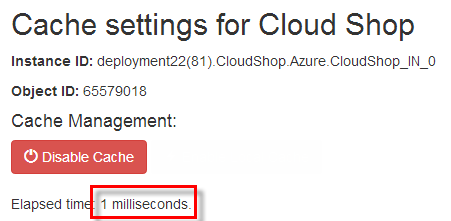
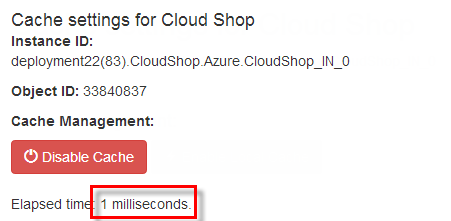
HOL-BuildingAppsWithCaching
Updated HOL document Ex2 and related screenshots.
	Updated Setup section, which pointed to another TK, and now to a WA documentation page for setting up a database.

diff --git a/HOLs/HOL-BuildingAppsWithCaching/HOL.md b/HOLs/HOL-BuildingAppsWithCaching/HOL.md
@@ -41,11 +41,11 @@ In order to run the exercises in this hands-on lab you need to set up your envir
 1. Right-click on **Setup.cmd** and select Run as Administrator to launch the setup process that will configure your environment and install the Visual Studio code snippets for this lab.
 1. If the User Account Control dialog is shown, confirm the action to proceed.
 
->**Note:** Make sure you have checked all the dependencies for this lab before running the setup.
+> **Note:** Make sure you have checked all the dependencies for this lab before running the setup.
 
->This lab requires a Windows Azure SQL Database to start. To build the Northwind2 database automatically, the **Setup.cmd** file will prompt to you with your Windows Azure SQL Database account information. Remember to update the NorthwindEntities connection string in the application's configuration file to point to your database for each solution.
+> This lab requires a Windows Azure SQL Database to start. To build the Northwind2 database automatically, the **Setup.cmd** file will prompt you with your Windows Azure SQL Database account information. Remember to update the NorthwindEntities connection string in the application's configuration file to point to your database for each solution.
 
->Remember to configure the firewall setting your Windows Azure SQL Database account to allow you to specify a list of IP addresses that can access your Windows Azure SQL Database Server. The firewall will deny all connections by default, so **be sure to configure your allow list** so you can connect to the database. Changes to your firewall settings can take a few moments to become effective. For additional information on how to prepare your Windows Azure SQL Database account, refer to the exercise 1 of the Introduction to Windows Azure SQL Database lab in the training kit.
+> Remember to configure the firewall setting your Windows Azure SQL Database account to allow you to specify a list of IP addresses that can access your Windows Azure SQL Database Server. The firewall will deny all connections by default, so **be sure to configure your allow list** so you can connect to the database. Changes to your firewall settings can take a few moments to become effective. For additional information on how to prepare your Windows Azure SQL Database account, refer to the Windows Azure documentation on [How to Create and Configure SQL Database](http://www.windowsazure.com/en-us/documentation/articles/sql-database-create-configure).
 
 >![SQL database setup](Images/sql-database-setup.png?raw=true "Windows Azure SQL Database setup")
 
@@ -216,14 +216,15 @@ In this task, you will change the Session State provider to take advantage of th
 <a name="Exercise2" />
 ### Exercise 2: Caching Data with Windows Azure Caching ###
 
-This exercise will show you how to use Windows Azure Caching to cache results from queries to Windows Azure SQL Database. You will continue with a solution based on the one used for the previous exercise. The only difference is in the home page, which has been updated to show the elapsed time to retrieve the list of products in the catalog, and now has a link to enable or disable the use of the cache.
+This exercise will show you how to use Windows Azure Caching to cache results from queries to Windows Azure SQL Database. You will continue with a solution based on the one used for the previous exercise. The only difference is in the home page, which has been updated to show the elapsed time to retrieve the list of products in the catalog, and now has a button to enable or disable the use of the cache.
+
 During the exercise, you will update the data access code with a trivial implementation of caching. It uses the canonical pattern, in which the code checks the cache first to retrieve the results of a query and, if there is no data available, executes the query against the database to cache the results.
 
 <a name="Ex2Task1" />
 #### Task 1 - Caching Data Retrieved from the SQL Database ####
 
 To make use of Windows Azure Caching, you first need to create a **DataCacheFactory** object. This object determines the cache cluster connection information, which is set programmatically or by reading settings from the configuration file. Typically, you create an instance of the factory class and use it for the lifetime of the application. To store data in the cache, you request a **DataCache** instance from the **DataCacheFactory** and then use it to add or retrieve items from the cache.
-In this task, you update the data access code to cache the result of queries to Windows Azure SQL Database using the Windows Azure Caching. 
+In this task you will update the data access code to cache the result of queries to Windows Azure SQL Database using Windows Azure Caching. 
 
 1. Start **Microsoft Visual Studio 2013 Express for Web** as administrator.
 1. Open the **Begin** solution located at **Source\\Ex2-CachingData\\Begin**.
@@ -237,7 +238,7 @@ In this task, you update the data access code to cache the result of queries to 
 	> **Note:** 	Make sure that you followed the instructions of the setup section to create a copy of the Northwind2 database in your own Windows Azure SQL Database account and configure your Windows Azure SQL Database firewall settings.
 
 1. Open the **ProductsRepository.cs** file in the **Services** folder of the **CloudShop** project.
-1. Add a namespace directive for **Microsoft.ApplicationServer.Caching**.
+1. Add the following _using_ directives.
 
 	<!--mark: 4-5-->
 	````C#
@@ -273,7 +274,7 @@ In this task, you update the data access code to cache the result of queries to 
 
 	> **Note:** The **DataCacheFactory** member is declared as static and is used throughout the lifetime of the application.
 
-1. Locate the **GetProducts** method and insert the following (highlighted) code immediately after the line that declares the **products** local variable.
+1. Locate the **GetProducts** method and insert the following (highlighted) code at the very beginning.
 	
 	(Code Snippet - _BuildingAppsWithCachingService-Ex2-GetProducts read cache-CS_)
 	<!--mark: 6-28-->
@@ -310,7 +311,7 @@ In this task, you update the data access code to cache the result of queries to 
 			using (NorthwindEntities context = new NorthwindEntities())
 			{
 				var query = from product in context.Products
-				select product.ProductName;
+							select product.ProductName;
 				var products = query.ToList();
 				return products;
 			}
@@ -334,7 +335,7 @@ In this task, you update the data access code to cache the result of queries to 
 			using (NorthwindEntities context = new NorthwindEntities())
 			{
 				var query = from product in context.Products
-				select product.ProductName;
+							select product.ProductName;
 				var products = query.ToList();
 				products.Insert(0, "(from data source)");
 
@@ -354,7 +355,7 @@ In this task, you update the data access code to cache the result of queries to 
 <a name="Ex2Task2" />
 #### Task 2 - Measuring the Data Access Latency ####
 
-In this task, you will update the application to allow control of the use of the cache from the UI and to display the time required to retrieve catalog data, allowing you to compare the latency of retrieving data from the cache against the time required to access the data source.
+In this task, you will update the application to allow control of the use of the cache from the UI and to display the time required to retrieve catalog data, allowing you to compare the latency of retrieving data from the cache and the time required to access the data source.
 
 1. Open the **HomeController.cs** file in the **Controllers** folder and add the **System.Diagnostics** using directive at the top of the file.
 	
@@ -397,7 +398,7 @@ In this task, you will update the application to allow control of the use of the
 	}
 	````
 
-1. In the same method, locate the code that creates a new **IndexViewModel** instance and replace the product property initialization with the following (highlighted) code block.
+1. In the same method, locate the code that creates a new **IndexViewModel** instance and replace the **model** initialization with the following (highlighted) code block.
 
 	(Code Snippet - _BuildingAppsWithCachingService-Ex2-IndexViewModel initialization-CS_)
 	<!--mark: 22-25-->
@@ -435,7 +436,7 @@ In this task, you will update the application to allow control of the use of the
 	}
 	````
 
-	>**Note:** The elements added to the view model provide the time taken to load the product catalog from the repository, a flag to indicate whether the cache is enabled, and an identifier for the catalog object returned by the call to **GetProducts**. The view displays the object ID to allow you to determine whether the instance returned by the call to the repository has changed. This feature will be used later in the exercise, when you enable the local cache.
+	>**Note:** The data added to the view model provide the time taken to load the product catalog from the repository, a flag to indicate whether the cache is enabled, and an identifier for the catalog object returned by the call to **GetProducts**. The view displays the object ID to allow you to determine whether the instance returned by the call to the repository has changed. This feature will be used later in the exercise when you enable the local cache.
 
 
 1. Add a new action method to the **HomeController** to enable or disable the cache from the UI of the application.
@@ -470,7 +471,7 @@ In this task, you will update the application to allow control of the use of the
 
 1. Now, click the **Enable** button in **Enable Cache** and wait for the page to refresh. Notice that the first item in the list indicates that it was still necessary for the application to retrieve the product catalog from the data source because the information has yet to be cached.
 
-1. Click **Products**, or refresh the page in the browser. This time, the application retrieves the product data from the Windows Azure Caching and the elapsed time should be lower. Confirm that the first item in the list indicates that the source of the information is the cache.
+1. Click **Products**, or refresh the page in the browser. This time, the application retrieves the product data from Windows Azure Cache Service and the elapsed time should be lower. Confirm that the first item in the list indicates that the source of the information is the cache.
 
 	![Running the application with the cache enabled](Images/running-the-application-with-the-cache-enable.png?raw=true "Running the application with the cache enabled")
 
@@ -481,7 +482,7 @@ In this task, you will update the application to allow control of the use of the
 <a name="Ex2Task3"></a>
 #### Task 3 - Enabling the Local Cache ####
 
-When using Windows Azure Caching, you have the option of using a local cache that allows objects to be cached in-memory at the client, as well as being stored in the cache cluster. In this task, you will enable the local cache and then compare the access time with the remote case.
+When using Windows Azure Cache Service, you have the option of using a local cache that allows objects to be cached in-memory at the client. When the application requests the object, the cache client checks whether the object resides in the local cache. If so, the reference to the object is returned immediately without contacting the cache service. If it does not exist, the object is retrieved from the cache service. In this task, you will enable the local cache and then compare the access time with the remote case.
 
 1. Open the **ProductsRepository.cs** file in the **Services** folder of the **CloudShop** project.
 
@@ -529,7 +530,7 @@ When using Windows Azure Caching, you have the option of using a local cache tha
 	...
 	````
 
-1. Open the **HomeController.cs** file in the **Controllers** folder and find the **Index** action. Locate the line that instantiates a new **ProductsRepository** and replace those lines with the following highlighted code:
+1. Open the **HomeController.cs** file in the **Controllers** folder and find the **Index** action. Locate the code that instantiates a new **ProductsRepository** and replace those lines with the following highlighted code:
 
 	(Code Snippet - _BuildingAppsWithCachingService-Ex2-GetProducts LocalCache-CS_)
 	<!--mark: 7-10-->
@@ -591,10 +592,10 @@ When using Windows Azure Caching, you have the option of using a local cache tha
 	(Code Snippet - _BuildingAppsWithCachingService-Ex2-EnableLocalCache Option-HTML_)
 	<!--mark: 13-23-->
 	````HTML
-	<h2>Cache settings for Cloud Shop</h2>
+	<span class="h4">Cache settings for Cloud Shop</span>
 	<p><b>Instance ID:</b> @Model.InstanceId</p>
 	<p><b>Object ID:</b> @Model.ObjectId</p>
-	<h4>Cache Management:</h4>
+	<p><b>Cache Management:</b></p>
 	@if (!Model.IsCacheEnabled)
 	{
 		<a href="@Url.Action("EnableCache", "Home", new { enabled = true })" class="btn btn-success"><span class="glyphicon glyphicon glyphicon-flash"></span> Enable Cache</a>
